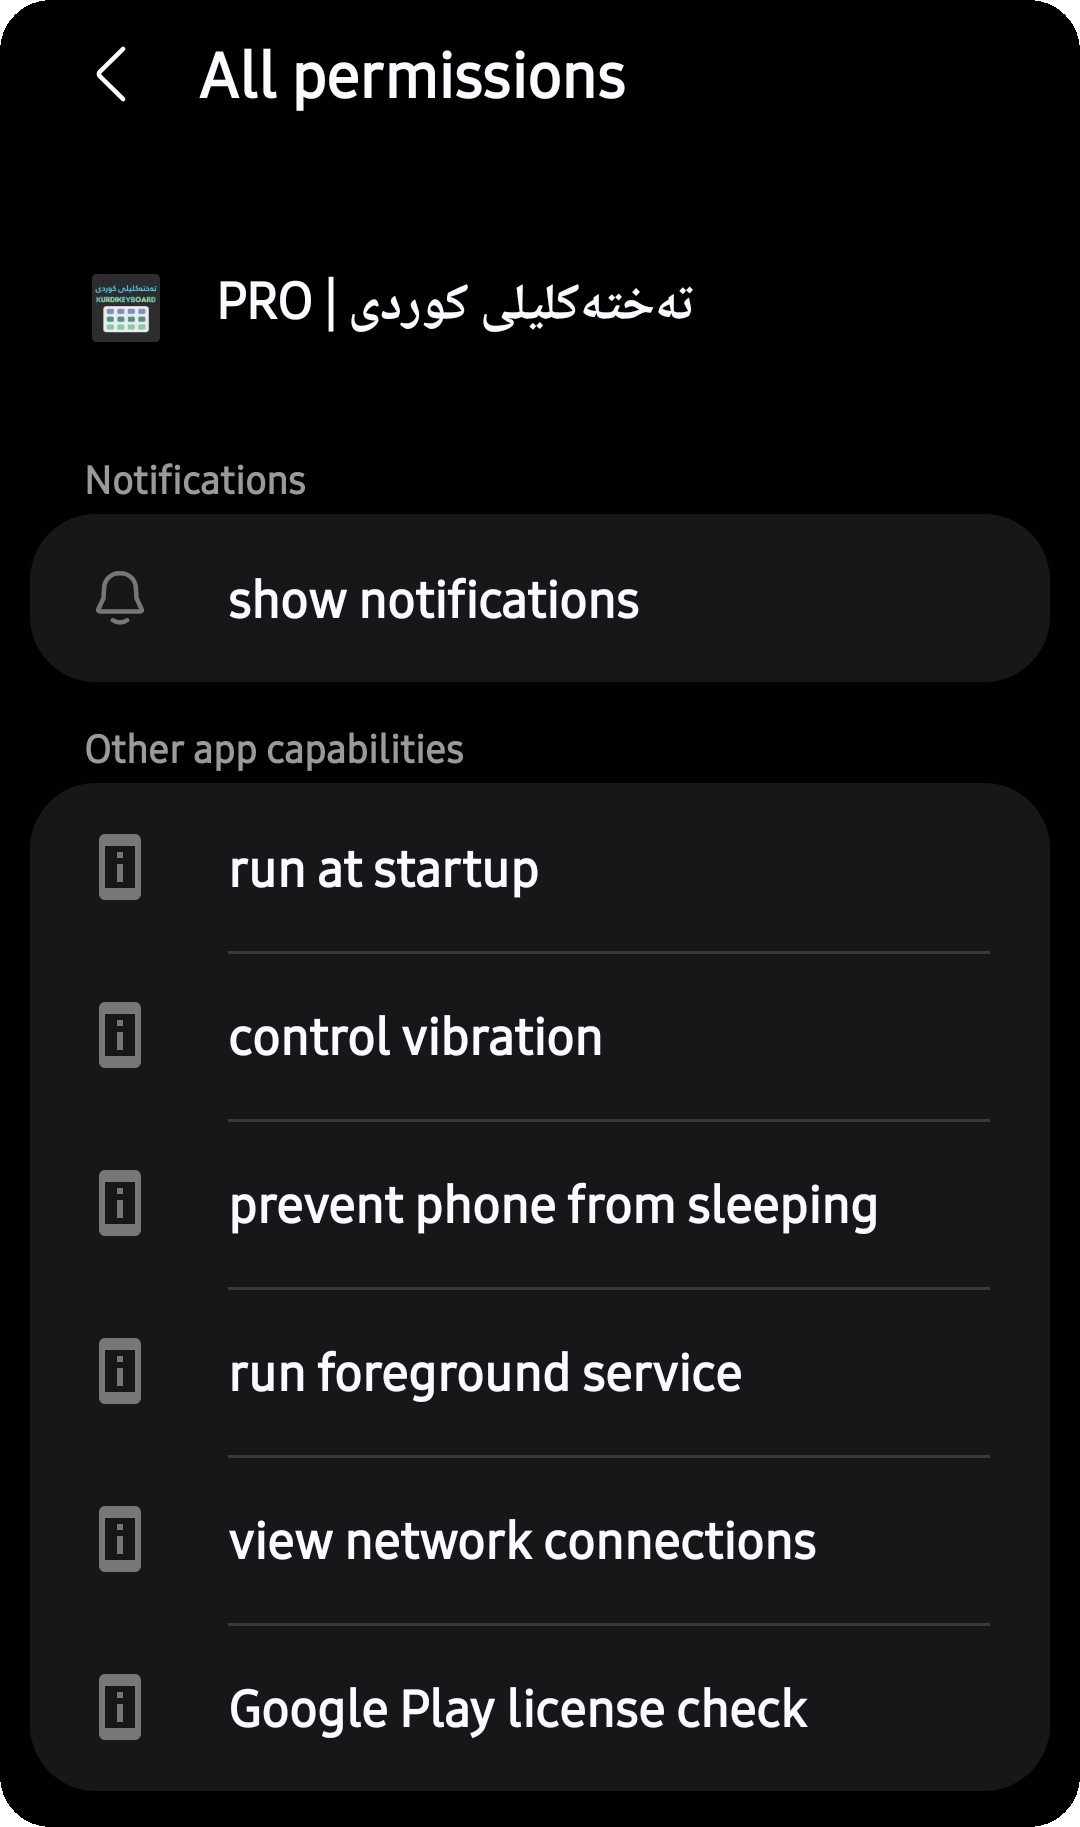
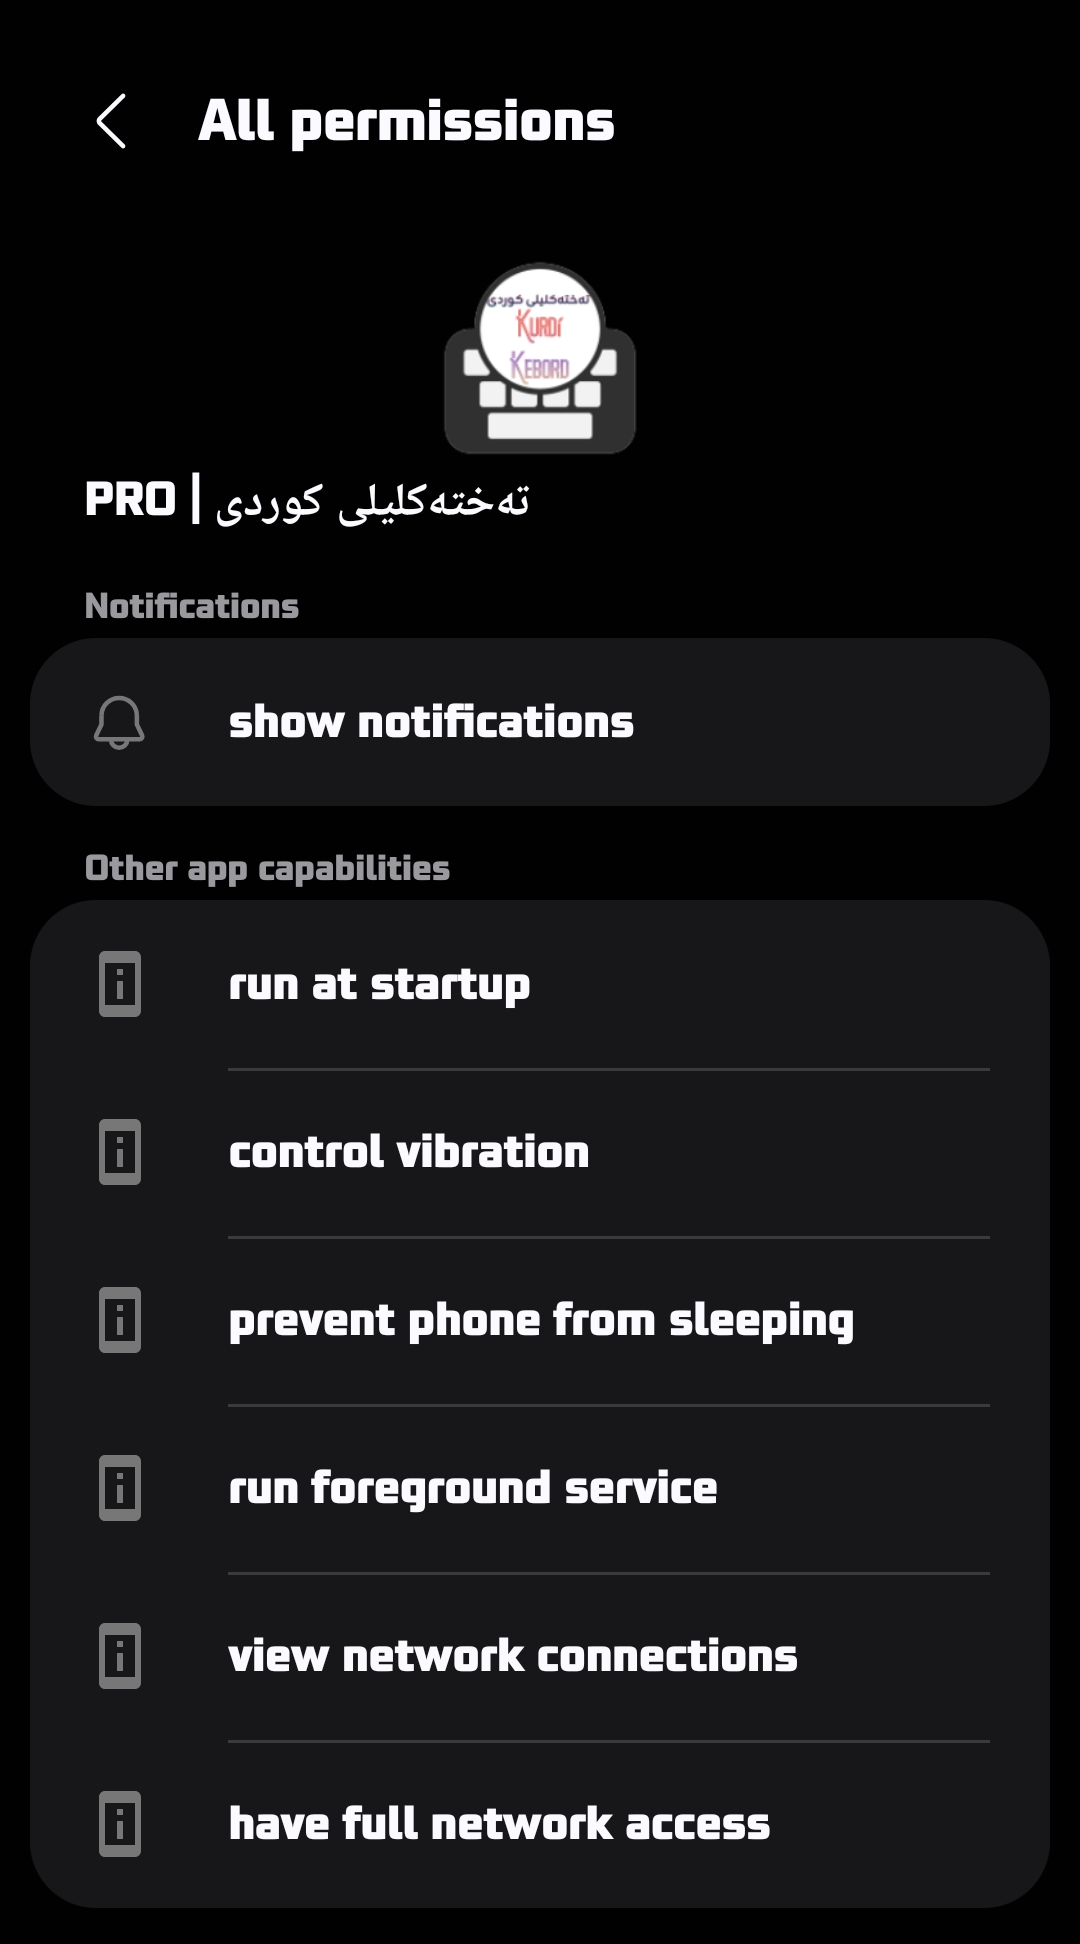
Update PRO

diff --git a/index.html b/index.html
@@ -554,7 +554,7 @@ Online Translation To 20+ Languages
                   <i class="bi bi-clipboard"></i>
                 </div>
                 <div class="feature-details">
-                  <h3>بەشی لەبەرگیراوەکان</h3>
+                  <h3>بەشی لەبەرگیراوەکان (FREE)</h3>
                   <p>بوونی بەشی لەبەرگیراوەکان بۆ هەڵگرتنی نووسینەکان بۆ ماوەی ٢٤ کاتژمێر
 </p>
                   <div class="feature-status scheduled">
@@ -569,8 +569,10 @@ Online Translation To 20+ Languages
                   <i class="bi bi-palette"></i>
                 </div>
                 <div class="feature-details">
-                  <h3>چەندین رووکار</h3>
-                  <p>بوونی تەنها چەند ڕووکارێکی دیاریکراو
+                  <h3>چەند رووکارێک (FREE)</h3>
+                  <p>بوونی تەنها چەند ڕووکارێکی دیاریکراو جێگیر
+<br>
+توانای دەستکاریکردن و گۆڕانکاری تێدانییە
 </p>
                   <div class="feature-status scheduled">
                     <span class="status-indicator"></span>
@@ -586,7 +588,7 @@ Online Translation To 20+ Languages
                   <i class="bi bi-keyboard"></i>
                 </div>
                 <div class="feature-details">
-                  <h3>چەندین شێواز</h3>
+                  <h3>چەند شێوازێک (FREE)</h3>
               <p>بوونی چەند شێوازێکی دیاریکراوی نووسین کە بەجێگیری دانروان
 </p>
                   <div class="feature-status scheduled">
@@ -601,7 +603,7 @@ Online Translation To 20+ Languages
                   <i class="bi bi-book-half"></i>
                 </div>
                 <div class="feature-details">
-                  <h3>سەدان زیکر و ئایەت</h3>
+                  <h3>سەدان زیکر و ئایەت (FREE & PRO)</h3>
               <p>بوونی سەدان زیکر و کورتە ئایەتی ناو قورئانی پیرۆز
 لەگەڵ حەرەکاتەکانی زمانی عەرەبی (علامات التشکیل)</p>
                   <div class="feature-status active">

diff --git a/privacy-policy-pro.html b/privacy-policy-pro.html
@@ -68,7 +68,7 @@
               <div class="project-meta">
                 <div class="meta-item">
                   <i class="bi bi-calendar3 ms-1"></i>
-                  <span>Last Update: September 2025</span>
+                  <span>Last Update: March 2026</span>
                 </div>
                 <div class="meta-item">
                   <i class="bi bi-person ms-1"></i>
@@ -162,15 +162,15 @@
             <div class="col-lg-5" data-aos="fade-up" data-aos-delay="100">
               <div class="project-stats">
                 <div class="stat-item">
-                  <div class="stat-number">5</div>
-                  <div class="stat-label">Five permissions is used</div>
+                  <div class="stat-number">6</div>
+                  <div class="stat-label">Six permissions is used</div>
                 </div>
                 <div class="stat-item">
                   <div class="stat-number">95%</div>
                   <div class="stat-label">Client Satisfaction</div>
                 </div>
                 <div class="stat-item">
-                  <div class="stat-number">12</div>
+                  <div class="stat-number">6</div>
                   <div class="stat-label">Months of Development</div>
                 </div>
                 <div class="stat-item">
@@ -262,6 +262,15 @@ USED to show a notification
 <br>
 when the app crashed.</li>
 <br>
+
+<ul>
+<li>"INTERNET"
+<br>
+USED to install the dictionary file(.dict) and emoji font(.ttf)
+<br>
+when user want to use the auto-correct service or custom emojifont face.</li>
+<br>
+
 <li>"VIBRATE"
 <br>
 USED to vibrate if the user

diff --git a/farhang.html b/farhang.html
@@ -615,6 +615,14 @@
 <br>
 سەدان تایبەتمەندی جیاواز بەردەستن</p>
               <ul class="features-list">
+
+                <li>
+                  <i class="bi bi-check2"></i>
+                   وەرگێڕانی ڕاستەوخۆ بۆ زیاتر لە ٢٠ زمان
+<br>
+Online Translation To 20+ Languages
+                </li>
+
                 <li>
                   <i class="bi bi-check2"></i>
                    دروستکردن و گۆڕینی شوێنی پیتەکان بەدڵی خۆت
